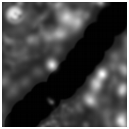
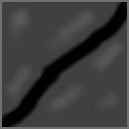
0.98.b
Novo terreno, direção da luz alterada. Voltando a usar os quadrados por
causa do tanque.mesh

diff --git a/boxing/boxing/MyGame.cpp b/boxing/boxing/MyGame.cpp
@@ -519,7 +519,8 @@ void MyGame::createScene(void)
 	//tutorial 3
 	mSceneMgr->setSkyDome(true, "Examples/CloudySky", 5, 8); // um coubo em volta da camera com textura
 
-	Ogre::Vector3 lightdir(0.55, -0.3, 0.75);
+	//Ogre::Vector3 lightdir(0.55, -0.3, 0.75);
+	Ogre::Vector3 lightdir(0.05, -0.1, 0.05);
     lightdir.normalise();
  
     Ogre::Light* light = mSceneMgr->createLight("tstLight");
@@ -530,7 +531,7 @@ void MyGame::createScene(void)
  
     mSceneMgr->setAmbientLight(Ogre::ColourValue(0.2, 0.2, 0.2));
 	mTerrainGlobals = OGRE_NEW Ogre::TerrainGlobalOptions();
-	mTerrainGroup = OGRE_NEW Ogre::TerrainGroup(mSceneMgr, Ogre::Terrain::ALIGN_X_Z, 513, 12000.0f);
+	mTerrainGroup = OGRE_NEW Ogre::TerrainGroup(mSceneMgr, Ogre::Terrain::ALIGN_X_Z, 129, 3000.0f);
     mTerrainGroup->setFilenameConvention(Ogre::String("BasicTutorial3Terrain"), Ogre::String("dat"));
     mTerrainGroup->setOrigin(Ogre::Vector3::ZERO);
 
@@ -605,11 +606,11 @@ void MyGame::createScene(void)
 	myObjects.push_back(tank1);
 
 
-	GameObject * tank2 = new GameObject(1, "tank2","tanque.mesh","node_tank2",mSceneMgr->getRootSceneNode(),Ogre::Vector3(-70,300,20),
-										40,mSceneMgr,physicsManager.mWorld, new btVector3(-70,300,20),40,10,30);
+	//GameObject * tank2 = new GameObject(1, "tank2","tanque.mesh","node_tank2",mSceneMgr->getRootSceneNode(),Ogre::Vector3(-70,300,20),
+	//									40,mSceneMgr,physicsManager.mWorld, new btVector3(-70,300,20),40,10,30);
 	
-	//GameObject * tank2 = new GameObject("tank2","cube.mesh","node_tank2",mSceneMgr->getRootSceneNode(),Ogre::Vector3(-13,550,13),
-	//									40,mSceneMgr,physicsManager.mWorld, new btVector3(-13,550,13),20,15,60);
+	GameObject * tank2 = new GameObject("tank2","cube.mesh","node_tank2",mSceneMgr->getRootSceneNode(),Ogre::Vector3(-13,550,13),
+										40,mSceneMgr,physicsManager.mWorld, new btVector3(-13,550,13),20,15,60);
 
 	myObjects.push_back(tank2);
 	GameObject * proj = new GameObject( "proj",
